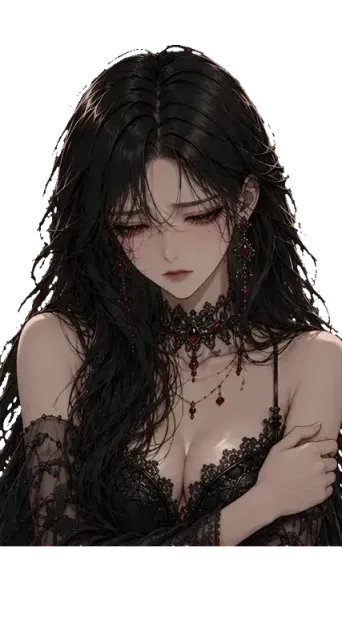
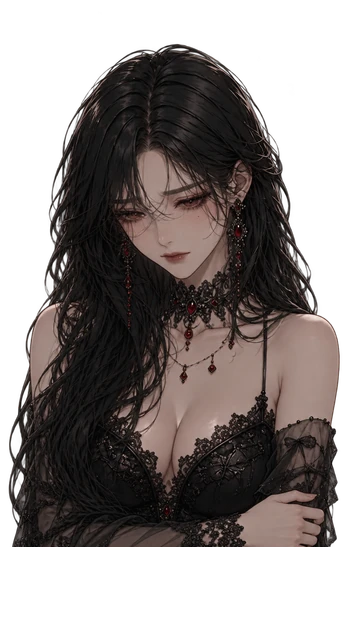
fix(novel): redraw 서한비 human sprites as roomy singles and size 윤달 to match
The first 서한비 cut-outs came from a tight 2x2 sheet, so hair and sleeves
were clipped straight at the cell edges. Each expression is now its own
transparent 1024x1536 generation, placed in the existing R2 627px frame
(head top y45, figure bottom y546) and scaled per expression to the R2 head
size. On phones her straight bottom cut now fades out like the other cast.

Desktop 윤달 was ~30% smaller than 연이; he is now 1.45x with his chin kept
above the dialog. Mobile 서한비/윤달 sizes were rebalanced to within ~15%.

diff --git a/public/codedestiny-novel.html b/public/codedestiny-novel.html
@@ -233,7 +233,9 @@ button{font-family:inherit;color:inherit;background:none;border:none;cursor:poin
 .char.lns{width:clamp(180px,29vh,340px);height:auto;aspect-ratio:441/705;max-height:none;bottom:clamp(172px,24vh,235px);background-repeat:no-repeat}
 .char.heal{height:clamp(230px,37vh,420px);max-height:none;bottom:clamp(175px,25vh,240px)}
 .char.baek{height:clamp(190px,31vh,350px);max-height:none;bottom:clamp(175px,25vh,240px)}
-.char.pje{height:clamp(360px,62vh,620px);max-height:none;bottom:clamp(150px,22vh,215px)}
+.char.pje{height:clamp(470px,80vh,800px);max-height:none;bottom:clamp(60px,10vh,100px)}
+/* 윤달(개편 2026-10): 허리까지 흉상이라 연이·서한비와 머리 크기를 맞추려 1.45배 키우고, 늘어난 만큼 아래로 내리되 턱이 대사창 위에 오게 둔다(허리는 화면 밖) */
+.char.yun{height:min(119vh,1190px);max-height:none;bottom:max(-21vh,-210px)}
 .char.muTrue{height:clamp(260px,43vh,490px);max-height:none;bottom:clamp(160px,23vh,225px)}
 /* 인간 네오(박병하) — 은발 미남 4×2 표정 시트 크롭(div 배경). 정체 공개 후 결말에 등장 */
 .char.neoh{width:clamp(230px,38vh,430px);height:auto;aspect-ratio:362/543;max-height:none;bottom:clamp(158px,23vh,225px);background-repeat:no-repeat;background-size:400% 200%}
@@ -260,7 +262,7 @@ button{font-family:inherit;color:inherit;background:none;border:none;cursor:poin
   .char.lns{width:min(24vh,30vw);bottom:clamp(198px,26vh,248px)}
   .char.heal{height:min(31vh,36vw);bottom:clamp(198px,26vh,248px)}
   .char.baek{height:min(27vh,33vw);bottom:clamp(198px,26vh,248px)}
-  .char.pje{height:min(42vh,320px);width:min(48vw,180px);bottom:clamp(220px,27vh,280px)}
+  .char.pje{height:min(30vh,236px);width:min(44vw,180px);bottom:clamp(220px,27vh,280px);-webkit-mask-image:linear-gradient(to bottom,#000 74%,transparent 87%);mask-image:linear-gradient(to bottom,#000 74%,transparent 87%)}
   .char.muTrue{height:min(35vh,42vw);bottom:clamp(190px,24vh,238px)}}
 /* L2 effects */
 .fxLayer{position:absolute;inset:0;z-index:3;pointer-events:none;overflow:hidden}
@@ -522,7 +524,7 @@ body.novel-paused *{animation-play-state:paused!important}
 @media(max-width:760px){
   .char.tiger{width:min(39vw,200px);height:auto;bottom:clamp(208px,28vh,260px)}
   .char[data-who="yeon"]:not(.pig):not(.sheet){height:min(47vh,340px);width:min(42vw,180px);bottom:clamp(220px,27vh,280px)}
-  .char.yun{height:min(47vh,340px);width:min(42vw,180px);bottom:clamp(220px,27vh,280px)}
+  .char.yun{height:min(52vh,380px);width:min(54vw,220px);bottom:clamp(220px,27vh,280px)}
 }
 @media (hover:none) and (pointer:coarse){
   .bgImg{animation:none;transform:scale(1.02)}

diff --git a/docs/design/novel-remaster-2026-10/provenance.md b/docs/design/novel-remaster-2026-10/provenance.md
@@ -241,9 +241,11 @@ Painted anime visual-novel BACKGROUND, matching the painterly brushwork, soft lu
 
 ## 서한비 사람 컷 — `remaster/pje/{cry,sad,smile,resolve}.webp`
 
-1024x1536, 2x2 초록 배경 시트. 참조: 공개 R2 의 기존 서한비 사람 스프라이트 3장(`pje` 키, 읽기 전용 내려받기). 처리: 초록 키 제거 → 가장자리 1px 침식 → 칸 자르기 → 기존 R2 컷과 머리 크기를 맞추려 0.8배 축소 → 위 45px·아래 80px 투명 여백으로 627px 높이 → WebP q90.
+1차는 1024x1536 2x2 초록 배경 시트였으나, 인물이 칸 경계까지 꽉 차 머리카락·소매가 칸 가장자리에서 직선으로 잘려 화면 검수에서 탈락했다(출고하지 않음, 아래에 프롬프트만 남긴다). 최종본은 표정마다 1024x1536 투명 낱장이다(SIZE=1024x1536, NOREF=1).
+참조: 공개 R2 의 기존 서한비 사람 스프라이트 2장(`pje` 키의 기본·무표정, 읽기 전용 내려받기). 참조 안내: `Attachments 1 and 2 (ref-pje-base.png, ref-pje-blank.png) are sprites of the CHARACTER - draw exactly this same woman (face, hair, outfit, colors, art style), but only ONE figure, with the framing and transparent background described below. Their background color is not part of the character.`
+처리: 알파 128 초과 첫 행(머리 꼭대기)이 y45, 캔버스 바닥이 y546 이 되도록 축소한 뒤 기존 R2 컷과 머리 크기를 맞추려 표정별 배율(cry·sad 1.18, smile 1.12, resolve 1.15)을 곱하고, y546 아래는 잘라 기존 627px 틀(아래 80px 투명)에 둔다. 폭은 인물 폭+14px(최소 250), 가운데 정렬. smile 원본의 오른쪽 가장자리 닿음(아래 99행)은 이 아래 자르기로 사라진다. WebP q90·alphaQuality 100(78KB 이하).
 
-정확한 생성 프롬프트:
+### 1차 시트 pjeSheet (탈락, 출고하지 않음)
 
 ```text
 A character EXPRESSION SHEET for a Korean anime visual novel. The attached reference sprites show the character SEO HAN-BI: draw exactly the SAME woman with the same face, hair, outfit, colors and art style (same line weight and shading), just with new expressions.
@@ -258,6 +260,79 @@ bottom-right: resolute and determined, steady gaze straight ahead, chin up, one 
 
 No other people, no animals, no extra props. No text, no numbers, no watermark.
 ```
+
+### cry
+
+```text
+BACKGROUND (most important): fully TRANSPARENT background (alpha 0). No backdrop, no gradient, no glow, no aura, no shadow.
+
+A single character sprite for a Korean anime visual novel. Portrait canvas 1024x1536.
+
+The character: SEO HAN-BI, exactly the same woman as the attached reference sprites - same face, same hair (length, color, style, loose strands), same outfit, same colors, same accessories, and the same art style, line weight and cel shading. Do not redesign her.
+
+Framing: ONE woman, standing, facing the viewer, centered, with the SAME body crop as the reference sprites (cut at the same place on her body). The whole figure including ALL of her hair, both arms, both sleeves and the outfit is at most 640 px wide and stays well inside the canvas, with at least 180 px of empty transparent space on the left and on the right and at least 120 px above the head. Her hair falls close to her body and does not spread out to the sides. The bottom of the figure is cut off cleanly by the bottom canvas edge, no fade. Nothing touches the left, right or top edge.
+
+Expression and pose (her softened, human, repentant side - no madness, no sneer): crying quietly, tears running down her cheeks, eyebrows drawn together, mouth trembling, both hands held together close in front of her chest.
+
+No other people, no animals, no extra props. No text, no numbers, no watermark.
+
+REMINDER: transparent background; at least 180 px of empty space left and right of the figure; hair and arms never clipped at the sides.
+```
+
+### sad
+
+```text
+BACKGROUND (most important): fully TRANSPARENT background (alpha 0). No backdrop, no gradient, no glow, no aura, no shadow.
+
+A single character sprite for a Korean anime visual novel. Portrait canvas 1024x1536.
+
+The character: SEO HAN-BI, exactly the same woman as the attached reference sprites - same face, same hair (length, color, style, loose strands), same outfit, same colors, same accessories, and the same art style, line weight and cel shading. Do not redesign her.
+
+Framing: ONE woman, standing, facing the viewer, centered, with the SAME body crop as the reference sprites (cut at the same place on her body). The whole figure including ALL of her hair, both arms, both sleeves and the outfit is at most 640 px wide and stays well inside the canvas, with at least 180 px of empty transparent space on the left and on the right and at least 120 px above the head. Her hair falls close to her body and does not spread out to the sides. The bottom of the figure is cut off cleanly by the bottom canvas edge, no fade. Nothing touches the left, right or top edge.
+
+Expression and pose (her softened, human, repentant side - no madness, no sneer): sad and remorseful, eyes lowered, lips pressed, one hand lightly holding her other arm close to her body.
+
+No other people, no animals, no extra props. No text, no numbers, no watermark.
+
+REMINDER: transparent background; at least 180 px of empty space left and right of the figure; hair and arms never clipped at the sides.
+```
+
+### smile
+
+```text
+BACKGROUND (most important): fully TRANSPARENT background (alpha 0). No backdrop, no gradient, no glow, no aura, no shadow.
+
+A single character sprite for a Korean anime visual novel. Portrait canvas 1024x1536.
+
+The character: SEO HAN-BI, exactly the same woman as the attached reference sprites - same face, same hair (length, color, style, loose strands), same outfit, same colors, same accessories, and the same art style, line weight and cel shading. Do not redesign her.
+
+Framing: ONE woman, standing, facing the viewer, centered, with the SAME body crop as the reference sprites (cut at the same place on her body). The whole figure including ALL of her hair, both arms, both sleeves and the outfit is at most 640 px wide and stays well inside the canvas, with at least 180 px of empty transparent space on the left and on the right and at least 120 px above the head. Her hair falls close to her body and does not spread out to the sides. The bottom of the figure is cut off cleanly by the bottom canvas edge, no fade. Nothing touches the left, right or top edge.
+
+Expression and pose (her softened, human, repentant side - no madness, no sneer): a small faint gentle smile, eyes soft and slightly wet, shoulders relaxed, arms hanging naturally close to her body.
+
+No other people, no animals, no extra props. No text, no numbers, no watermark.
+
+REMINDER: transparent background; at least 180 px of empty space left and right of the figure; hair and arms never clipped at the sides.
+```
+
+### resolve
+
+```text
+BACKGROUND (most important): fully TRANSPARENT background (alpha 0). No backdrop, no gradient, no glow, no aura, no shadow.
+
+A single character sprite for a Korean anime visual novel. Portrait canvas 1024x1536.
+
+The character: SEO HAN-BI, exactly the same woman as the attached reference sprites - same face, same hair (length, color, style, loose strands), same outfit, same colors, same accessories, and the same art style, line weight and cel shading. Do not redesign her.
+
+Framing: ONE woman, standing, facing the viewer, centered, with the SAME body crop as the reference sprites (cut at the same place on her body). The whole figure including ALL of her hair, both arms, both sleeves and the outfit is at most 640 px wide and stays well inside the canvas, with at least 180 px of empty transparent space on the left and on the right and at least 120 px above the head. Her hair falls close to her body and does not spread out to the sides. The bottom of the figure is cut off cleanly by the bottom canvas edge, no fade. Nothing touches the left, right or top edge.
+
+Expression and pose (her softened, human, repentant side - no madness, no sneer): resolute and determined, steady gaze straight ahead, chin up, one hand closed into a fist at her side, arm close to her body.
+
+No other people, no animals, no extra props. No text, no numbers, no watermark.
+
+REMINDER: transparent background; at least 180 px of empty space left and right of the figure; hair and arms never clipped at the sides.
+```
+
 
 ## 윤달 — `remaster/yun/<표정>.webp`
 
